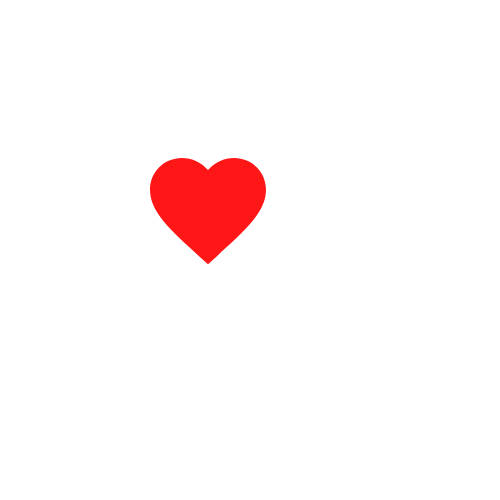
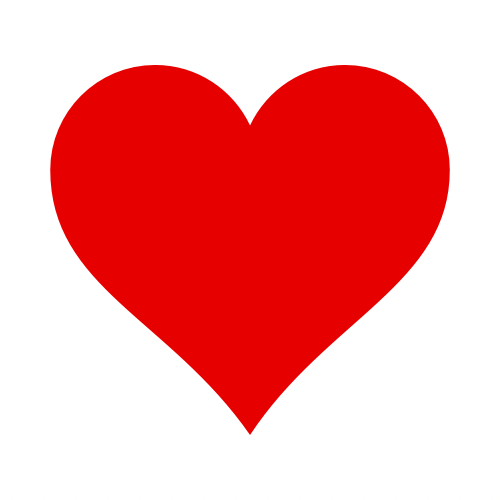
詳細部分のビューファイル調整

diff --git a/app/assets/stylesheets/artists/show.css b/app/assets/stylesheets/artists/show.css
@@ -1,0 +1,183 @@
+/* ヘッダ部分 */
+.check-header{
+  padding-top: 5vh;
+  text-align: center;
+  background-color:#FFFFCC;
+}
+/* ヘッダ部分 */
+
+/* アーティストの概要 */
+
+.artist-show {
+  background-color: #FFFFCC;
+  width: 100vw;
+  display: flex;
+  flex-direction: column;
+  align-items: center;
+  padding: 5vh 0;
+}
+
+.artist-box {
+  background-color: #FFF;
+  width: 70vw;
+  min-width: 1200px;
+  padding: 10vh 15vw;
+  display: flex;
+  flex-direction: column;
+  align-items: center;
+}
+
+.artist-show-name {
+  text-align: center;
+  font-weight: bold;
+  font-size: 6vh;
+}
+
+.artist-box-img {
+  height: 50vh;
+  width: 60vw;
+  min-height: 500px;
+  background-color: #FFF(205, 202, 202);
+  object-fit: contain;
+}
+
+.artist-name-box {
+  margin: 25px 0px;
+  display: flex;
+  align-items: center;
+  flex-direction: column;
+}
+
+
+
+.artist-show-btn {
+  text-align: center;
+  background-color: #f4a460;
+  font-size: 24px;
+  font-weight: bold;
+  color: #FFF;
+  margin: 20px 0px;
+  padding: 2vh 10vw;
+}
+
+.artist-show-cheer-btn {
+  text-align: center;
+  background-color: #ea352d;
+  font-size: 24px;
+  font-weight: bold;
+  color: #FFF;
+  margin: 20px 0px;
+  padding: 2vh 9.5vw;
+}
+
+.artist-destroy {
+  background-color: black;
+  text-align: center;
+  font-weight: bold;
+  font-size: 24px;
+  color: #FFF;
+  padding: 2vh 11vw;
+}
+
+.artist-explain-box {
+  font-size: 18px;
+  margin: 40px 0px;
+}
+.artist-explain-box-name{
+  font-size: 4vh;
+  font-weight: bold;
+}
+
+.detail-table {
+  margin-bottom: 30px;
+  width: 100%;
+}
+
+.detail-artist {
+  width: 20%;
+  background-color: #eee;
+  border: 1px solid #dedede;
+  font-size: 16px;
+  text-align: center;
+}
+
+.detail-value {
+  width: 80%;
+  padding: 20px 20px 20px 30px;
+  border: 1px solid #dedede;
+  font-size: 16px;
+  
+}
+
+.option {
+  display: flex;
+  justify-content: space-between;
+  position: relative;
+}
+
+.heart-show-btn {
+  border-radius: 40px;
+  width: 15vw;
+  min-width: 200px;
+  color: rgb(249, 75, 0);
+  border: 2px solid #ffb340;
+  display: flex;
+  justify-content: center;
+  align-items: center;
+  margin-right: 100px;
+}
+
+.heart-show-icon {
+  margin-right: 5px;
+}
+
+.pato-btn {
+  border-radius: 40px;
+  width: 15vw;
+  min-width: 200px;
+
+  padding: 1vh 0;
+  color: black;
+  border: 2px solid #2d2d2d;
+  display: flex;
+  justify-content: center;
+  align-items: center;
+}
+
+.pato-icon {
+  margin-right: 5px;
+}
+
+
+/* /アーティストの概要 */
+
+
+/* コメント機能 */
+
+.artist-comment{
+  font-size:20px;
+  font-weight: bold;
+}
+
+.comment-box {
+  width: 53vw;
+  background-color: #fff;
+  margin: 3vh 0 5vh 0 ;
+  text-align: center;
+}
+
+.comment-text {
+  width: 100%;
+  height: 100px;
+  padding: 10px;
+  border: solid 2px #dedede;
+  resize: none;
+}
+
+.comment-warn {
+  padding: 10px;
+  font-size: 16px;
+  margin: 15px 0 5px 0 ;
+  text-align: left;
+}
+/* コメント機能 */

diff --git a/app/assets/stylesheets/artists/artists.scss b/app/assets/stylesheets/artists/artists.scss
@@ -184,13 +184,14 @@ a {
 }
 
 .heart-icon {
-  height: 9vh;
-  width: 9vh;
+  height: 3vh;
+  width: 3vh;
 }
 
 .heart-count {
   font-size: 2.5vh;
-  margin-bottom:10px;
+  margin-bottom:3px;
+  margin-left: 7px;
 }
 
 /*アーティスト一覧表示*/
